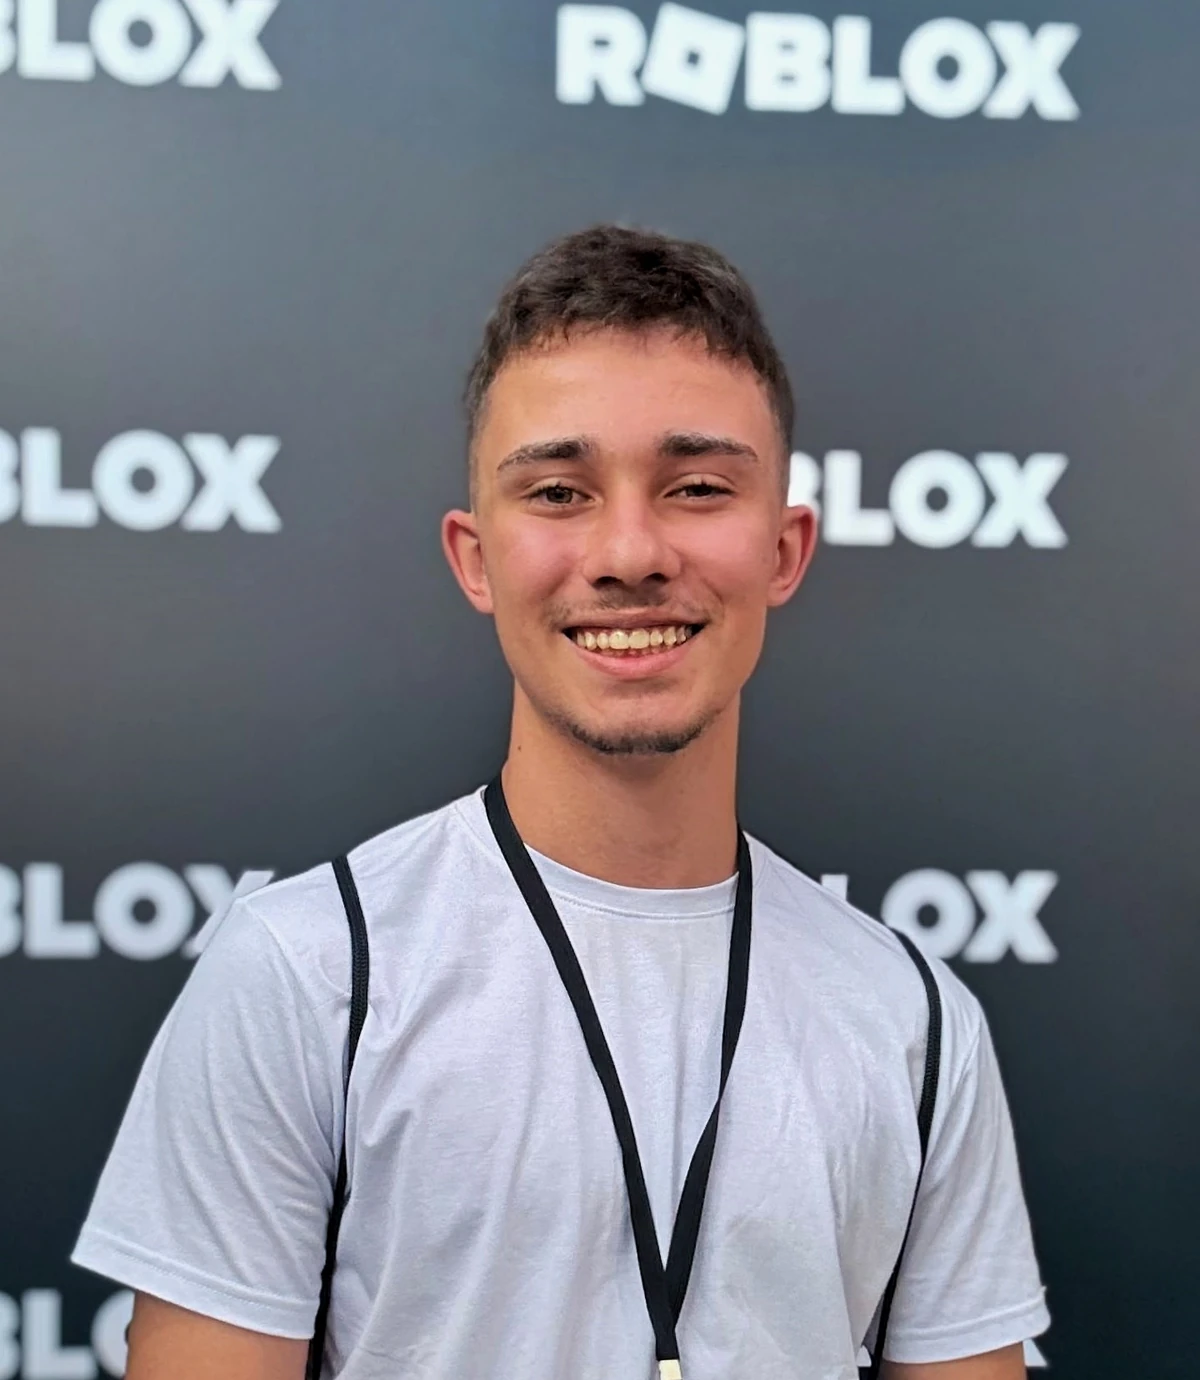
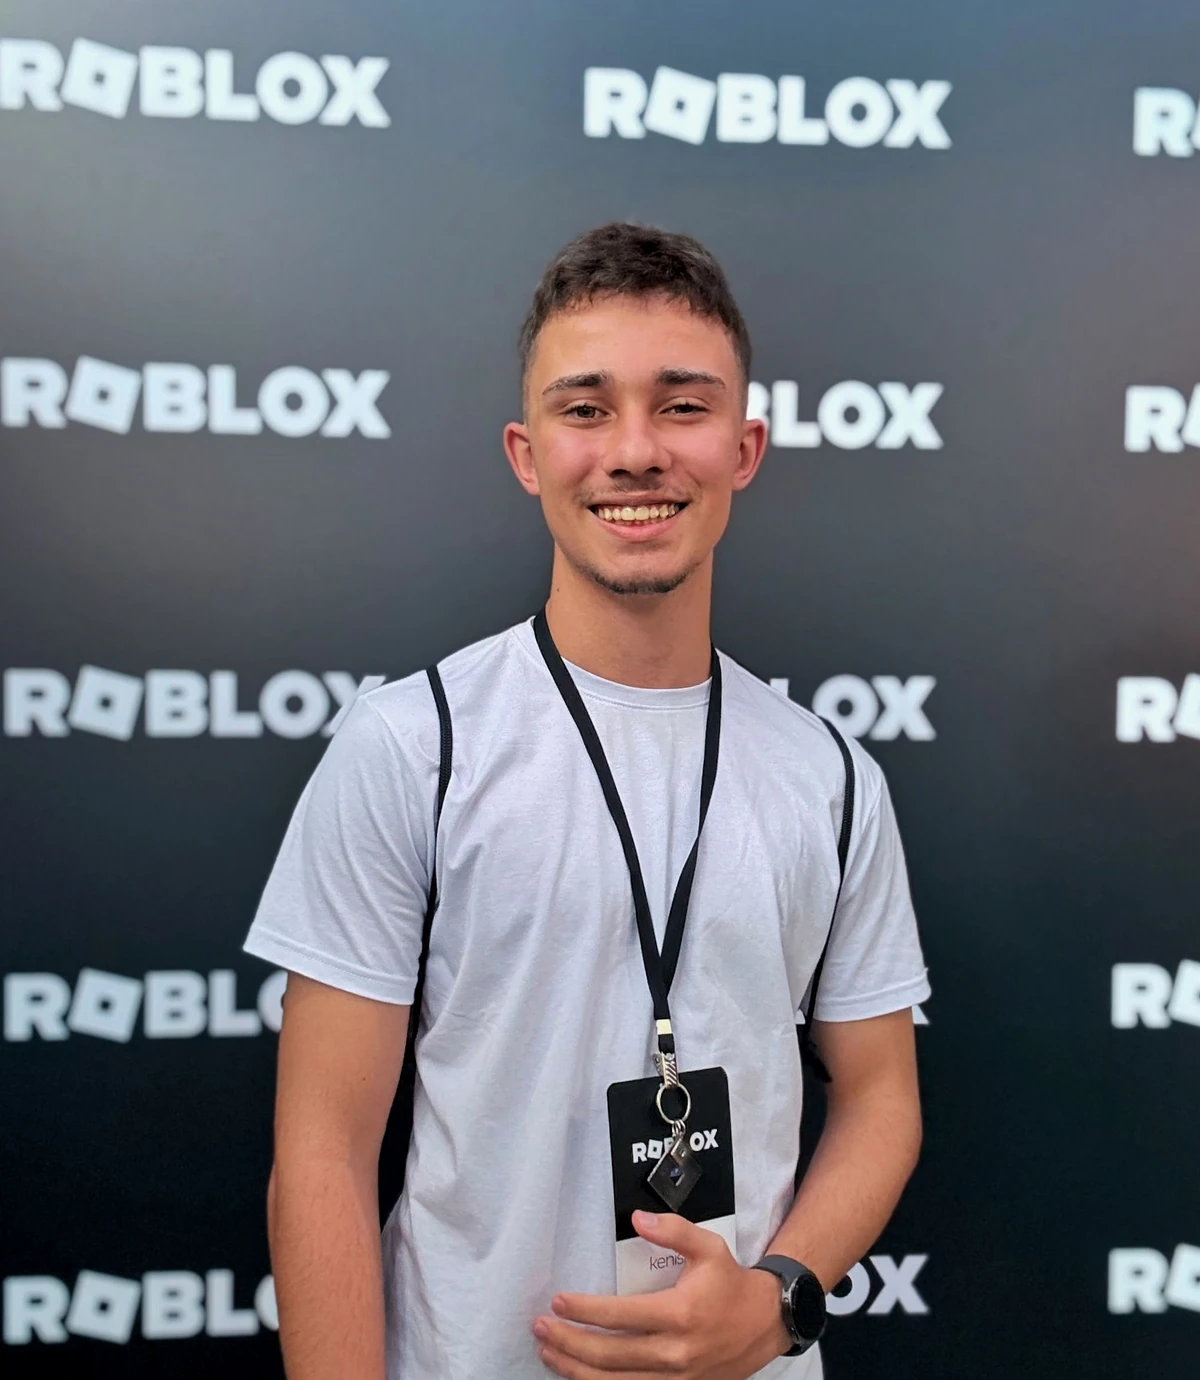
Sobre mim: a foto mais distante, sem o close no rosto
O recorte agora vai da cintura para cima e mostra o crachá do Roblox. Os
endereços da foto ganharam ?v=2, para quem já visitou ver a nova na hora.

Claude-Session: https://claude.ai/code/session_015FyhRLmvKdKy9x29tAtaDi

diff --git a/index.html b/index.html
@@ -329,7 +329,7 @@
       <div class="about__grid">
         <div class="about__side">
           <figure class="about__photo">
-            <div class="about__frame"><img src="img/henrique-800.webp" srcset="img/henrique-800.webp 800w, img/henrique-1200.webp 1200w" sizes="(max-width: 860px) 260px, (max-width: 1300px) 32vw, 420px" alt="Henrique Rocha" width="800" height="920" loading="lazy" decoding="async"></div>
+            <div class="about__frame"><img src="img/henrique-800.webp?v=2" srcset="img/henrique-800.webp?v=2 800w, img/henrique-1200.webp?v=2 1200w" sizes="(max-width: 860px) 260px, (max-width: 1300px) 32vw, 420px" alt="Henrique Rocha" width="800" height="920" loading="lazy" decoding="async"></div>
           </figure>
           <ul class="about__chips">
             <li>@kenish38</li>

diff --git a/README.md b/README.md
@@ -43,7 +43,7 @@ O visual anterior (o nome recortado numa parede preta, com um mar de partículas
 
 Quem pediu menos movimento no sistema não vê o show nem o pó: a aba só pula para a seção, o risco e a troca de frase acontecem só pelo brilho, e a maquete do estúdio não gira sozinha, os blocos aparecem sem cair e não há onda.
 
-**A foto do Sobre mim:** são `img/henrique-800.webp` e `img/henrique-1200.webp` (800 x 920 e 1200 x 1380 px, já recortadas no formato da moldura, 4 de largura por 4,6 de altura); o navegador baixa a que basta para a tela (celular e computador comum ficam com a de 800; telas de alta resolução, com a de 1200). Para trocar, salve a foto nova com os mesmos nomes e tamanhos, em WebP de boa qualidade e sem os dados da câmera (data, aparelho e localização). A foto atual foi desespelhada (o ROBLOX do fundo estava ao contrário) e recortada do ombro para cima.
+**A foto do Sobre mim:** são `img/henrique-800.webp` e `img/henrique-1200.webp` (800 x 920 e 1200 x 1380 px, já recortadas no formato da moldura, 4 de largura por 4,6 de altura); o navegador baixa a que basta para a tela (celular e computador comum ficam com a de 800; telas de alta resolução, com a de 1200). Para trocar, salve a foto nova com os mesmos nomes e tamanhos, em WebP de boa qualidade e sem os dados da câmera (data, aparelho e localização). A foto atual foi desespelhada (o ROBLOX do fundo estava ao contrário) e recortada da cintura para cima, com o crachá do Roblox. Ao trocar a foto, aumente o número do `?v=` nos endereços dela em `index.html`, para quem já visitou o site ver a nova na hora.
 
 **Segurança da página:** o `<head>` de `index.html` tem uma regra (Content-Security-Policy) que só deixa a página carregar arquivos do próprio site, as capas e o player do YouTube. Nenhum script de fora roda ali, e o endereço henriquerocha.dev.br serve só este site: nenhum outro site consegue ler a chave do painel, que o navegador do dono guarda nesse endereço. Ao incluir algo de outro site (uma fonte, um vídeo de outro serviço), o endereço dele precisa entrar nessa regra. O script de uma linha do `<head>` (que marca a página com `js` e, na primeira visita da sessão, com `intro`, para o show começar sem nada piscar) é liberado pelo hash `sha256-...`: se ele mudar, o hash precisa ser refeito. Os estilos ficam todos em `css/site.css`: a regra não deixa usar `style="..."` no HTML (o JavaScript pode mudar estilos pelo `element.style`, que é permitido).
 
